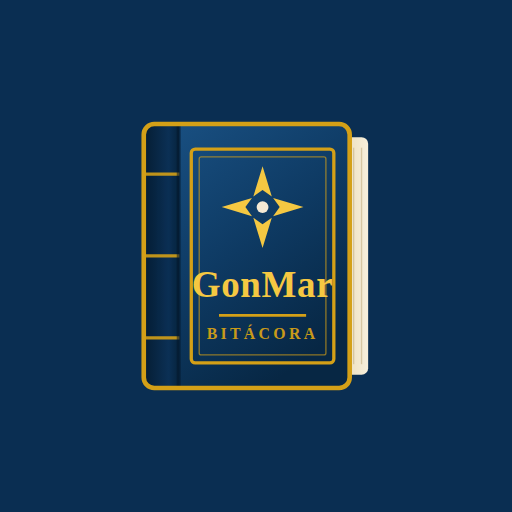
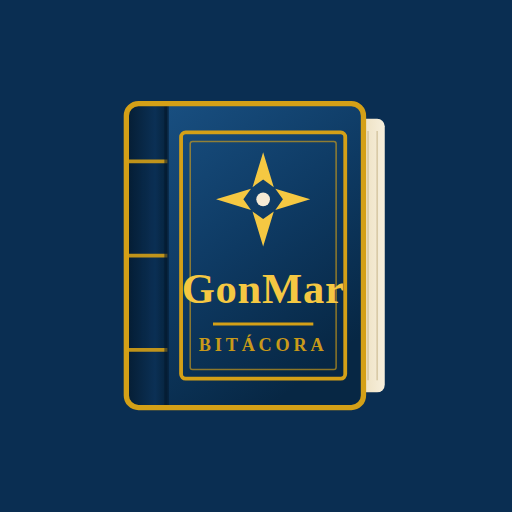
La app instalada se llama GonMar
Bajo el icono ponía "Bitácoras". Ahora el nombre corto del manifest es GonMar,
que es lo que enseña el lanzador, y el largo "GonMar · Bitácoras de viaje".
Van con él el título de la pestaña y los metadatos de nombre de iOS y Windows.

El icono maskable llevaba el libro al 66% y con la máscara se quedaba pequeño.
La zona segura de Android es el círculo del 80% (409 px de 512) y el libro mide
340x400, diagonal 525: cabe entero hasta escala 0,78, así que sube a 0,76.

Dentro de la app los títulos siguen diciendo Bitácoras. VERSION v11 → v12.

Claude-Session: https://claude.ai/code/session_01M8DkpfN3Y1SnDfS2pj1RbB

Changed region(s): [[0.2188, 0.1875, 0.75, 0.8125]]

diff --git a/index.html b/index.html
@@ -3,14 +3,14 @@
 <head>
 <meta charset="UTF-8">
 <meta name="viewport" content="width=device-width, initial-scale=1.0">
-<title>Bitácora de Viajes</title>
+<title>GonMar · Bitácoras de viaje</title>
 <link rel="manifest" href="manifest.webmanifest">
 <meta name="theme-color" content="#0a2e52">
-<meta name="application-name" content="Bitácoras">
+<meta name="application-name" content="GonMar">
 <meta name="mobile-web-app-capable" content="yes">
 <meta name="apple-mobile-web-app-capable" content="yes">
 <meta name="apple-mobile-web-app-status-bar-style" content="black-translucent">
-<meta name="apple-mobile-web-app-title" content="Bitácoras">
+<meta name="apple-mobile-web-app-title" content="GonMar">
 <link rel="icon" href="icono-192.png" sizes="192x192">
 <link rel="apple-touch-icon" href="icono-apple.png">
 <link href="https://fonts.googleapis.com/css2?family=Pirata+One&family=Alfa+Slab+One&family=Pacifico&family=Bebas+Neue&family=Rye&family=Lato:ital,wght@0,400;0,700;0,900;1,400&display=swap" rel="stylesheet" media="print" onload="this.media='all'">

diff --git a/sw.js b/sw.js
@@ -1,7 +1,7 @@
 /* Bitácoras de viaje — service worker
    Guarda la app y sus librerías para que funcione sin conexión.
    Sube VERSION cada vez que cambies index.html. */
-const VERSION = 'bitacoras-v11';
+const VERSION = 'bitacoras-v12';
 const SHELL = [
   './',
   './index.html',
